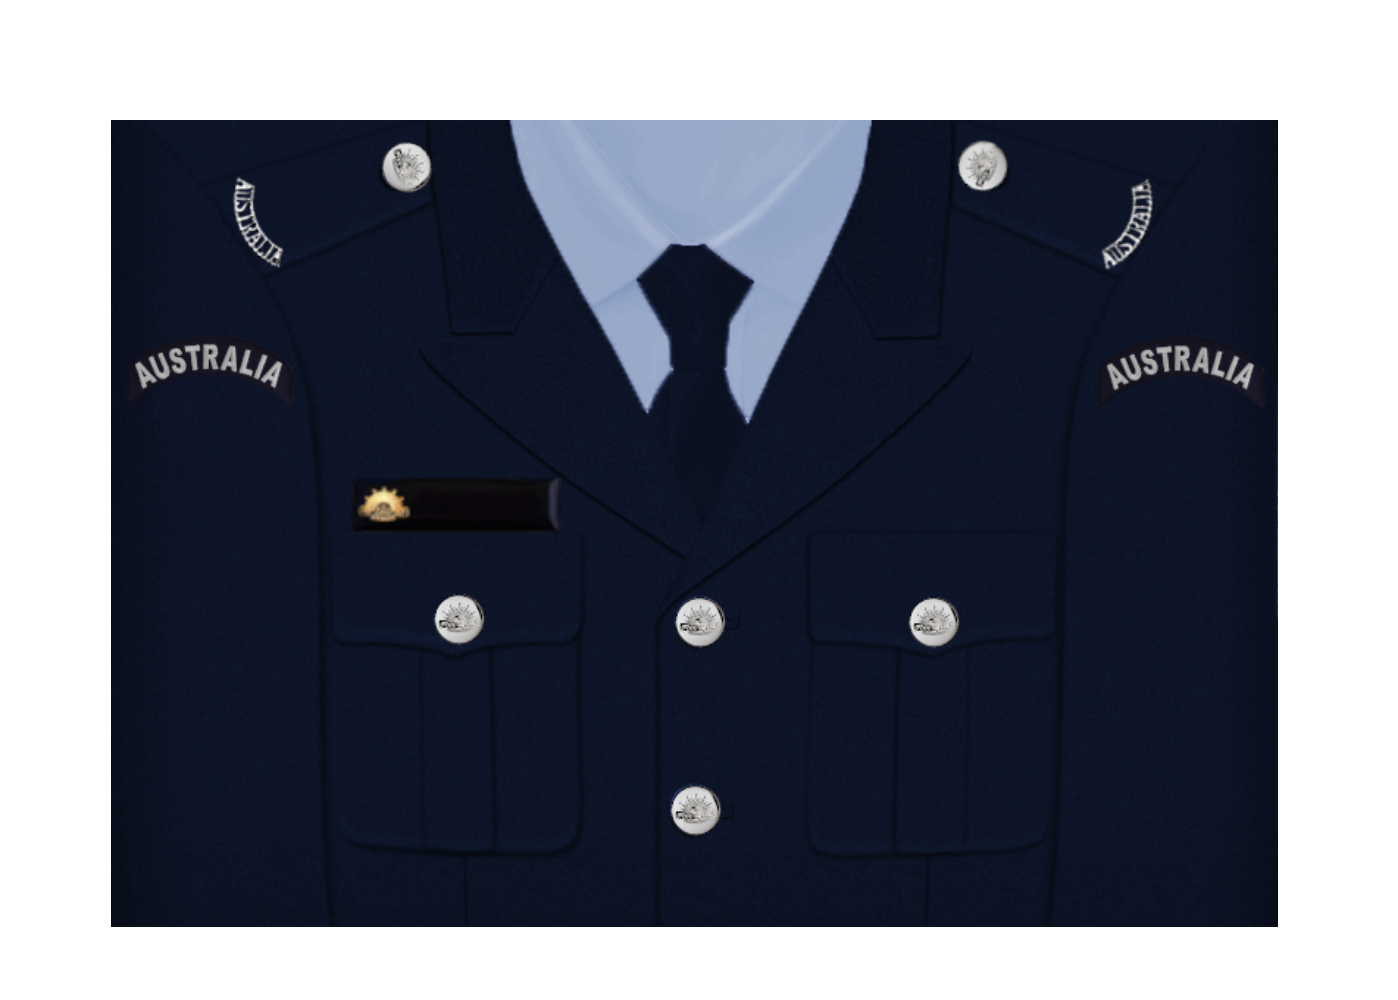
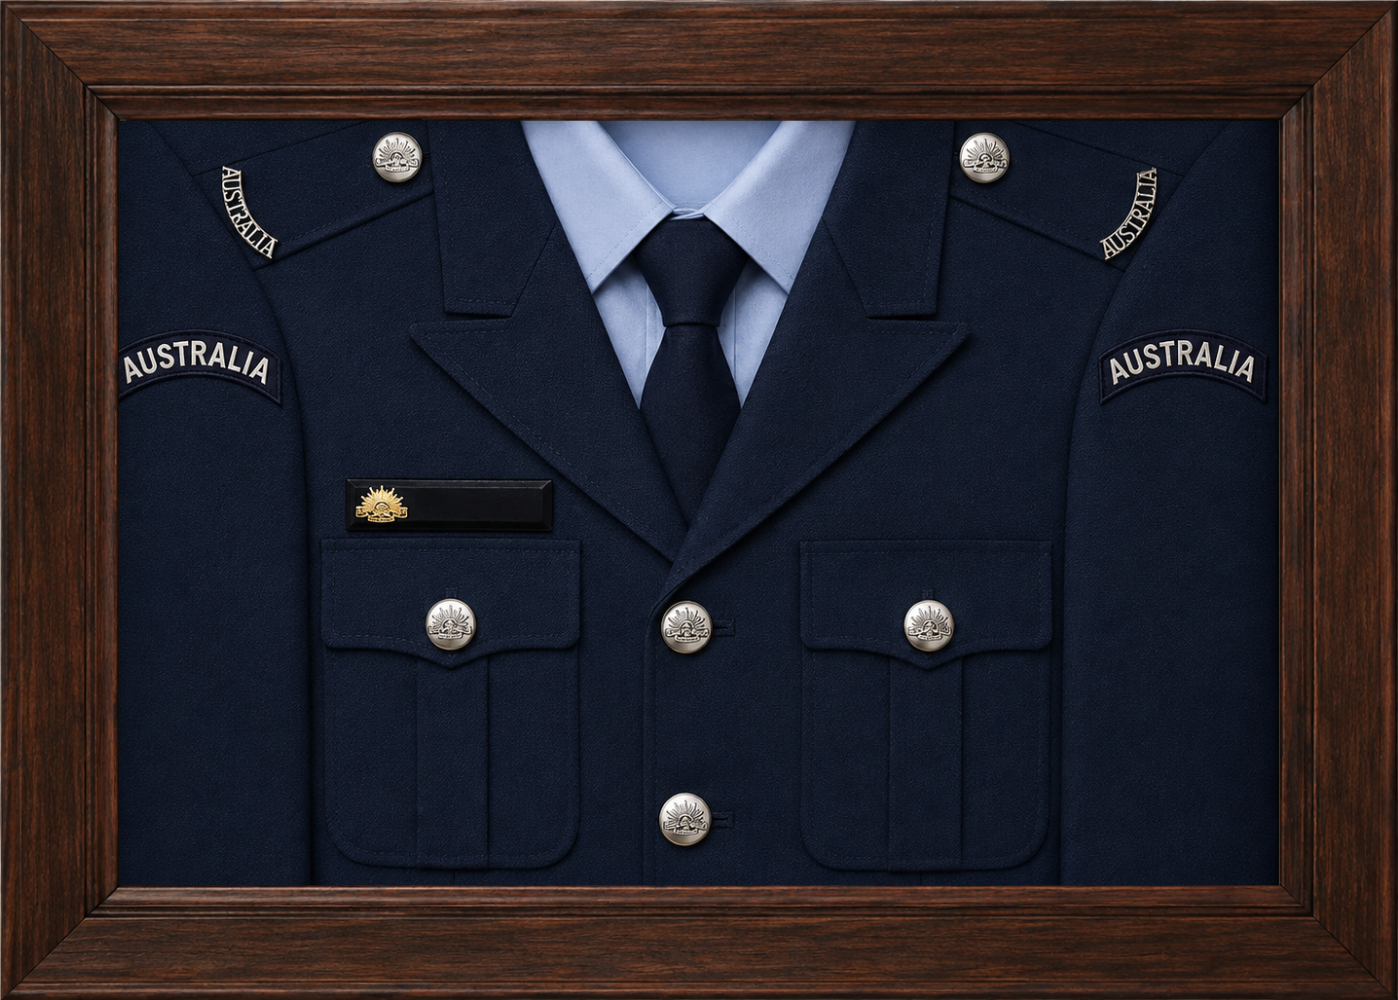
feat(milpac): new uniform and medal-box artwork, release the milpacs pages
Replaces all nine fixed-path render assets — both base uniforms, both collars,
the uniform frame, the rank border, and the medal box's backboard, glass and
border. Every one is now exactly 1398x1000 (uniform) or 951x340 (box), matching
the coordinates the overlays are drawn at, so nothing shifts underneath them.

Takes /milpacs and /milpacs/[username] out of WIP. Both gates had to go: the
WIP_PAGES check inside the index page, and /milpacs in middleware's WIP_PATHS —
the latter rewrote the whole tree to /wip, so removing only the env check would
have left both pages hidden. WIP_PAGES itself stays for orbat/retired/bios.

diff --git a/apps/web/app/(landing)/milpacs/page.tsx b/apps/web/app/(landing)/milpacs/page.tsx
@@ -16,7 +16,6 @@ import Db from '@/lib/mongo'
 
 import Card from './card'
 import MilpacsNav from './nav'
-import WipPage from '@/components/wip-page'
 
 
 
@@ -32,8 +31,6 @@ function hexToRgb(hex: string): string {
 }
 
 export default async function Page() {
-
-	if (process.env.WIP_PAGES === 'true') return <WipPage />
 
 	await connection()
 

diff --git a/apps/web/middleware.ts b/apps/web/middleware.ts
@@ -1,6 +1,6 @@
 import { NextRequest, NextResponse } from 'next/server'
 
-const WIP_PATHS = ['/community/orbat', '/milpacs', '/community/retired', '/community/bios']
+const WIP_PATHS = ['/community/orbat', '/community/retired', '/community/bios']
 
 /**
  * Injects the current pathname as an `x-pathname` header so that server

diff --git a/apps/web/docs/map/g-public-pages.md b/apps/web/docs/map/g-public-pages.md
@@ -197,8 +197,9 @@ Sets page metadata ("MILPACS").
 The MILPACs index/roster: hero banner, sticky `<MilpacsNav/>` jump-nav, then sections for India
 Company HQ, 1st/2nd/Support Platoon (from `fetchORBAT()`), Reservists — each member rendered via
 `<Card/>`. Section colours/patches come from `Db.orbatSectionMeta`. Shows "⚙ Manage ORBAT" link
-to `/dashboard/orbat` for users with `PERMISSIONS.admin.manageOrbat`. Gated by `WIP_PAGES` env var
-and also intercepted by middleware `WIP_PATHS` (`/milpacs`). Public read.
+to `/dashboard/orbat` for users with `PERMISSIONS.admin.manageOrbat`. **Live** — both WIP gates were
+removed (the `WIP_PAGES` check here and `/milpacs` in middleware's `WIP_PATHS`, which also covered
+`/milpacs/[username]`). Public read.
 
 #### app/(landing)/milpacs/card.tsx
 Client member card: tilt-on-hover 3D effect, links to `/milpacs/[username]`. Displays avatar
@@ -631,10 +632,11 @@ for `middleware.ts`'s `WIP_PATHS` list (`/community/orbat`, `/milpacs`, `/commun
   `/operations/[id]` themselves are public-read with extra content/actions unlocked once logged
   in (`isLoggedIn`, `isHQ`, `isJ6`, `isAllStaff`, `isSectionLeader` flags computed per-request).
 - **WIP gate**: `WIP_PAGES` env var (checked inside individual page components) and
-  `middleware.ts`'s `WIP_PATHS` rewrite are two *independent* mechanisms both currently targeting
-  milpacs/orbat/retired/bios — don't assume one implies the other is wired up.
-  `community/bios/page.tsx` and `milpacs/page.tsx` check `WIP_PAGES` explicitly;
-  `community/retired/page.tsx` also checks it via its child render.
+  `middleware.ts`'s `WIP_PATHS` rewrite are two *independent* mechanisms — don't assume one implies
+  the other is wired up. They now target orbat/retired/bios only; **milpacs was released and needed
+  both removed**, since the middleware rewrite alone would still have hidden the whole tree.
+  `community/bios/page.tsx` checks `WIP_PAGES` explicitly; `community/retired/page.tsx` checks it
+  via its child render.
 - **Operation theming**: `pageTheme` (`modern` | `oldfashioned` | `scifi`) is threaded through
   almost every operations component (`doc-body.tsx`, `paged-view.tsx`, `section-nav.tsx`,
   `PageNavClient.tsx`, the main `[id]/page.tsx`) — any new operation-page component should accept
